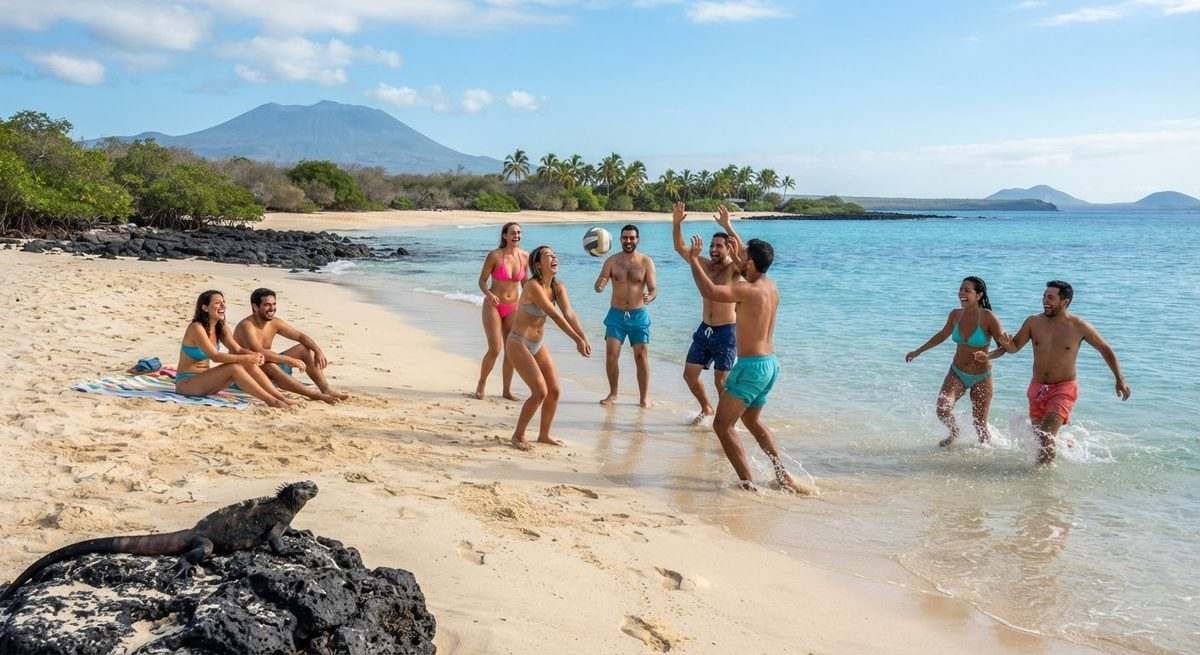
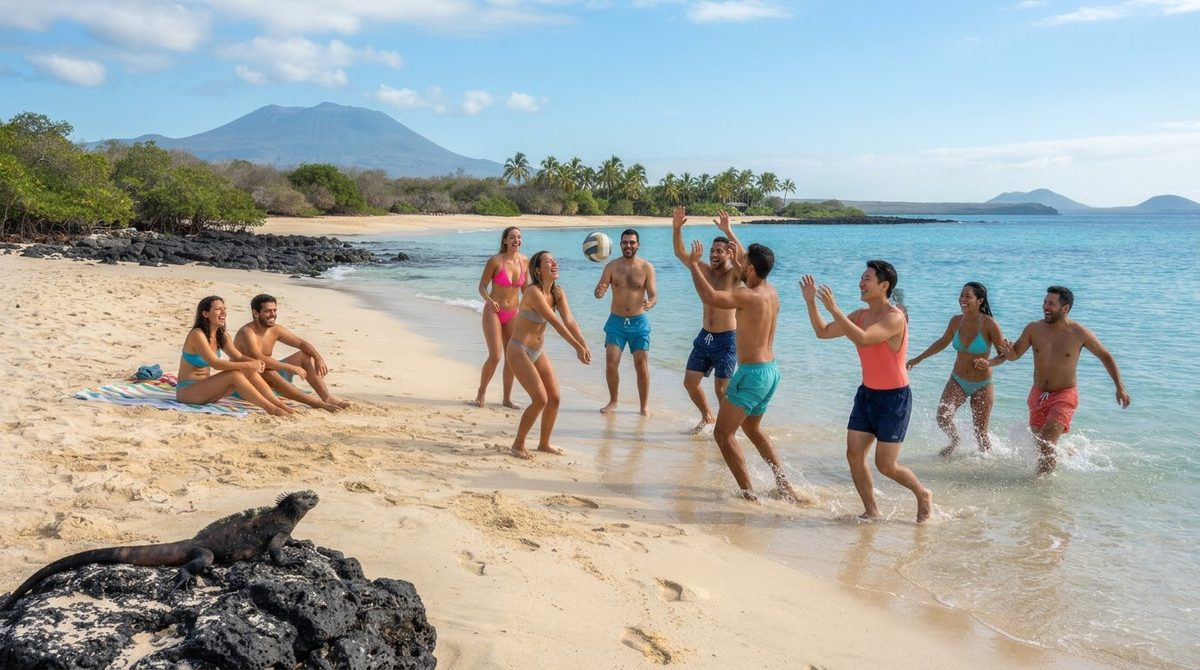
Foto de grupos con integrante de rasgos asiáticos
Claude-Session: https://claude.ai/code/session_01YJM8XpBgcFZGNFhfyo5dWd

diff --git a/en/index.html b/en/index.html
@@ -1102,7 +1102,7 @@ function renderSeg(){
  var t=T[L],g=$('vjgrid');g.textContent='';
  SEG.forEach(function(x){
   var c=document.createElement('article');c.className='mp-card vj-card';
-  if(x.img){var fg=document.createElement('figure');fg.className='vj-img';var im=document.createElement('img');im.src=x.img;im.alt=t[x.alt_t];im.loading='lazy';im.width=1200;im.height=655;var ia=document.createElement('span');ia.className='pk-ia';ia.textContent=t.ia_note;fg.appendChild(im);fg.appendChild(ia);c.appendChild(fg)}
+  if(x.img){var fg=document.createElement('figure');fg.className='vj-img';var im=document.createElement('img');im.src=x.img;im.alt=t[x.alt_t];im.loading='lazy';im.width=1200;im.height=670;var ia=document.createElement('span');ia.className='pk-ia';ia.textContent=t.ia_note;fg.appendChild(im);fg.appendChild(ia);c.appendChild(fg)}
   var h=document.createElement('h4');h.textContent=t['sg_'+x.k+'_t'];c.appendChild(h);
   var p=document.createElement('p');p.className='mp-for';p.textContent=t['sg_'+x.k+'_p'];c.appendChild(p);
   if(x.alt){

diff --git a/index.html b/index.html
@@ -1102,7 +1102,7 @@ function renderSeg(){
  var t=T[L],g=$('vjgrid');g.textContent='';
  SEG.forEach(function(x){
   var c=document.createElement('article');c.className='mp-card vj-card';
-  if(x.img){var fg=document.createElement('figure');fg.className='vj-img';var im=document.createElement('img');im.src=x.img;im.alt=t[x.alt_t];im.loading='lazy';im.width=1200;im.height=655;var ia=document.createElement('span');ia.className='pk-ia';ia.textContent=t.ia_note;fg.appendChild(im);fg.appendChild(ia);c.appendChild(fg)}
+  if(x.img){var fg=document.createElement('figure');fg.className='vj-img';var im=document.createElement('img');im.src=x.img;im.alt=t[x.alt_t];im.loading='lazy';im.width=1200;im.height=670;var ia=document.createElement('span');ia.className='pk-ia';ia.textContent=t.ia_note;fg.appendChild(im);fg.appendChild(ia);c.appendChild(fg)}
   var h=document.createElement('h4');h.textContent=t['sg_'+x.k+'_t'];c.appendChild(h);
   var p=document.createElement('p');p.className='mp-for';p.textContent=t['sg_'+x.k+'_p'];c.appendChild(p);
   if(x.alt){
